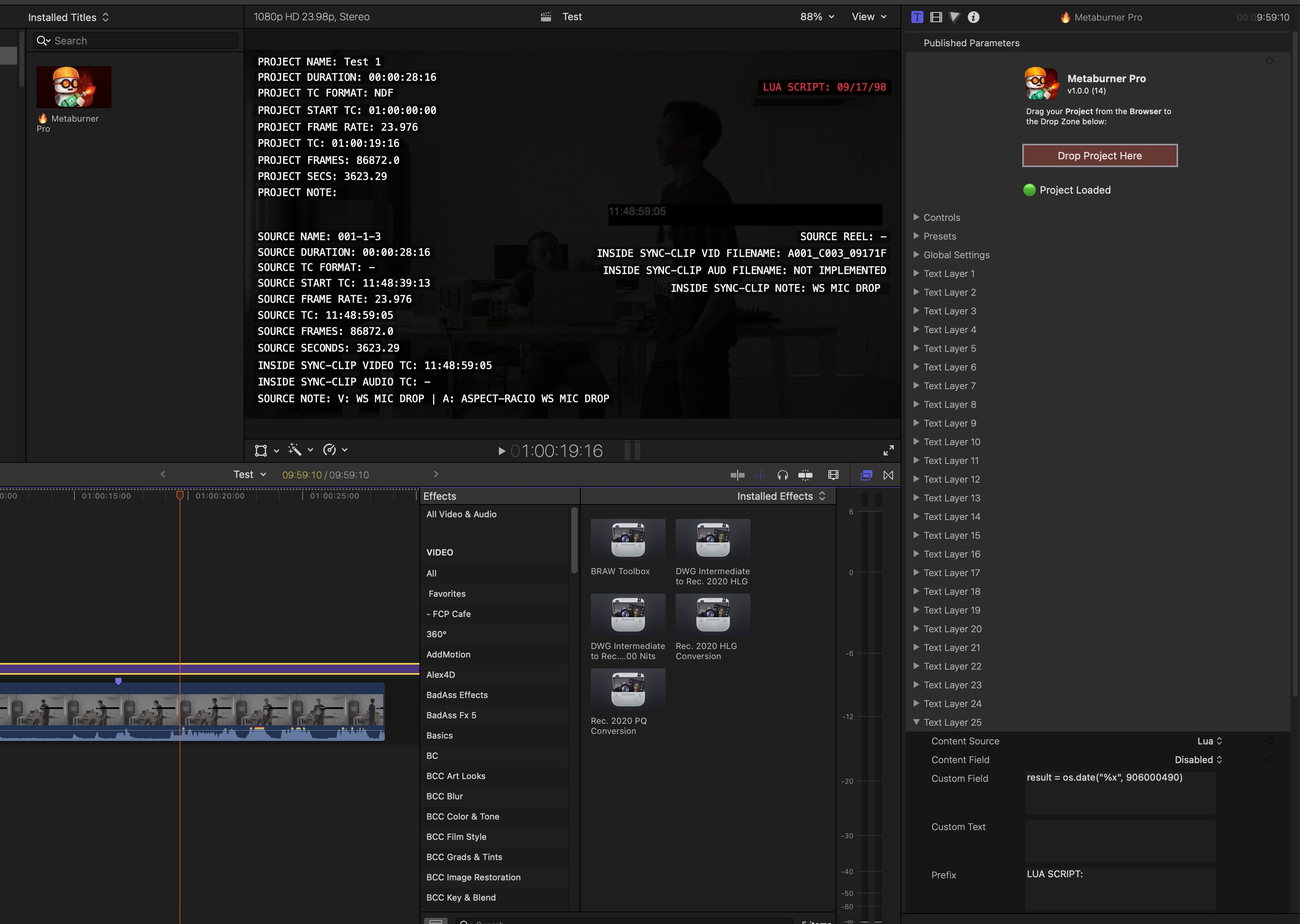
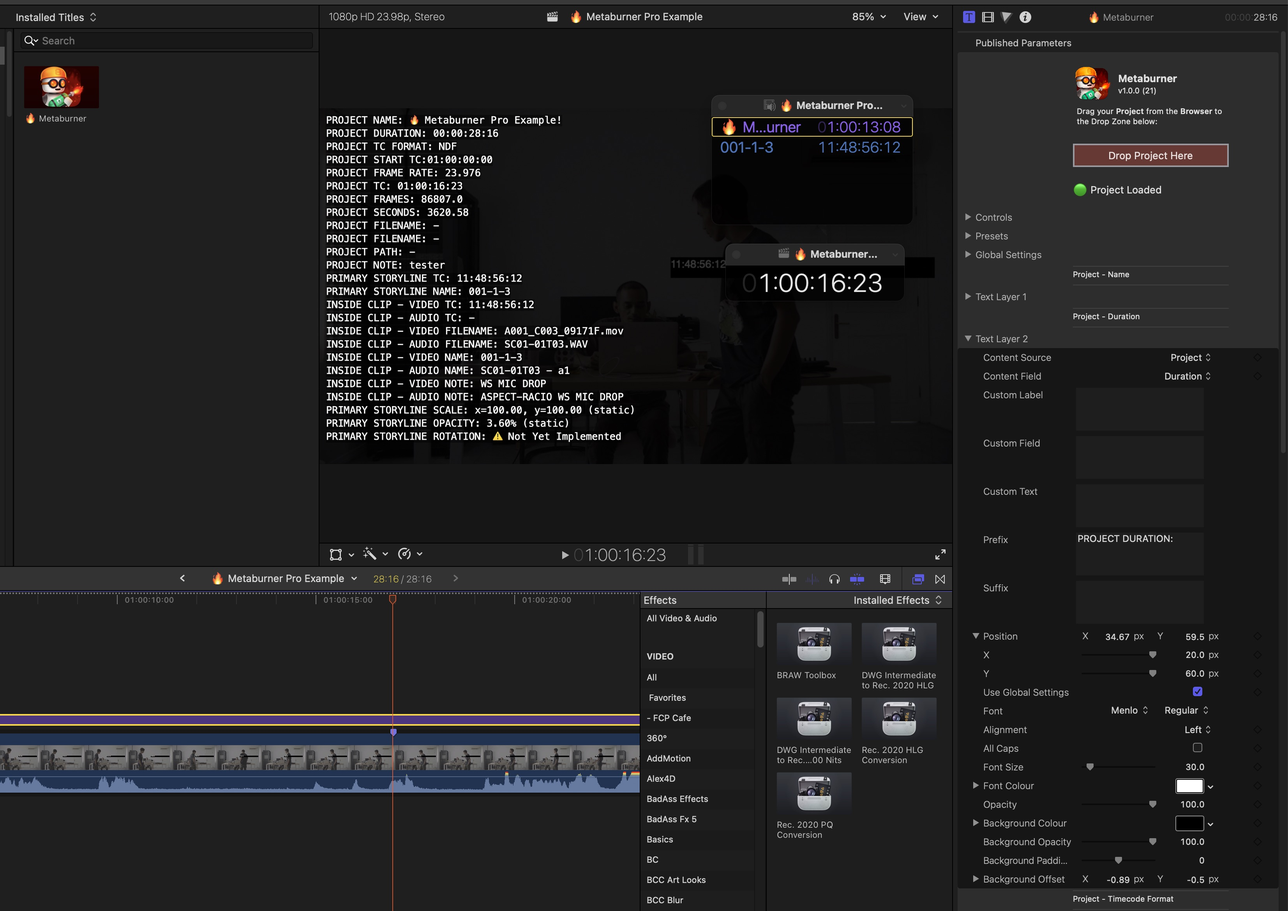
Refreshes Retype-generated documentation.
Process triggered by latenitefilms.

diff --git a/resources/js/config.js b/resources/js/config.js
@@ -1,1 +1,1 @@
-var __DOCS_CONFIG__ = {"id":"j2HvILx7F175xTHL53U11cjKD36Itj/pDDu","key":"emAB1cqzcEJFsx9aUPAuCh+JKh/uq30fuBt4fp+wi6o.Ai9SP9zGGxypaO0RkI0unTFMh++wutS40xlmudhUhgqalq+R4feKgkIhDKQDaK76AD7okR+IYuNUnNcdw2/jtQ.62","base":"/","host":"metaburner.pro","version":"1.0.0","useRelativePaths":true,"documentName":"index.html","appendDocumentName":false,"trailingSlash":true,"preloadSearch":false,"cacheBustingToken":"3.5.0.757540453582","cacheBustingStrategy":"query","sidebarFilterPlaceholder":"Filter","toolbarFilterPlaceholder":"Filter","showSidebarFilter":true,"filterNotFoundMsg":"No member names found containing the query \"{query}\"","maxHistoryItems":15,"homeIcon":"<path d=\"M12.97 2.59a1.5 1.5 0 00-1.94 111 0l-7.5 6.363A1.5 1.5 0 003 10.097V19.5A1.5 1.5 0 004.5 21h4.75a.75.75 0 00.75-.75V14h4v6.25c0 .414.336.75.75.75h4.75a1.5 1.5 0 001.5-1.5v-9.403a1.5 1.5 0 00-.53-1.144l-7.5-6.363z\"></path>","access":[{"value":"public","label":"Public"},{"value":"protected","label":"Protected"}],"toolbarLinks":[{"id":"fields","label":"Fields"},{"id":"properties","label":"Properties"},{"id":"methods","label":"Methods"},{"id":"events","label":"Events"}],"sidebar":[{"n":"/","l":"Introduction","s":"<path d=\"M11.03 2.59a1.501 1.501 0 0 1 1.94 0l7.5 6.363a1.5 1.5 0 0 1 .53 1.144V19.5a1.5 1.5 0 0 1-1.5 1.5h-5.75a.75.75 0 0 1-.75-.75V14h-2v6.25a.75.75 0 0 1-.75.75H4.5A1.5 1.5 0 0 1 3 19.5v-9.403c0-.44.194-.859.53-1.144ZM12 3.734l-7.5 6.363V19.5h5v-6.25a.75.75 0 0 1 .75-.75h3.5a.75.75 0 0 1 .75.75v6.25h5v-9.403Z\"/>"},{"n":"latenite","l":"Explore LateNite's Tools!","s":"<path d=\"M15.716 1.329a1.341 1.341 0 0 1 2.109 1.55L15.147 9h4.161c1.623 0 2.372 2.016 1.143 3.075L8.102 22.721a1.148 1.148 0 0 1-1.81-1.317L8.996 15H4.674c-1.619 0-2.37-2.008-1.148-3.07l12.19-10.6Zm.452 1.595L4.51 13.061a.25.25 0 0 0 .164.439h5.45a.749.749 0 0 1 .692 1.041l-2.559 6.066 11.215-9.668a.25.25 0 0 0-.164-.439H14a.75.75 0 0 1-.687-1.05Z\"/>"},{"n":"buy","l":"Buy on FxFactory","s":"<path d=\"M11.25 9.331V.75a.75.75 0 0 1 1.5 0v8.58l1.949-2.11A.75.75 0 1 1 15.8 8.237l-3.25 3.52a.75.75 0 0 1-1.102 0l-3.25-3.52A.75.75 0 1 1 9.3 7.22l1.949 2.111Z\"/><path d=\"M2.5 3.75v11.5c0 .138.112.25.25.25h18.5a.25.25 0 0 0 .25-.25V3.75a.25.25 0 0 0-.25-.25h-5.5a.75.75 0 0 1 0-1.5h5.5c.966 0 1.75.784 1.75 1.75v11.5A1.75 1.75 0 0 1 21.25 17h-6.204c.171 1.375.805 2.652 1.769 3.757A.752.752 0 0 1 16.25 22h-8.5a.75.75 0 0 1-.566-1.243c.965-1.105 1.599-2.382 1.77-3.757H2.75A1.75 1.75 0 0 1 1 15.25V3.75C1 2.784 1.784 2 2.75 2h5.5a.75.75 0 0 1 0 1.5h-5.5a.25.25 0 0 0-.25.25ZM10.463 17c-.126 1.266-.564 2.445-1.223 3.5h5.52c-.66-1.055-1.098-2.234-1.223-3.5Z\"/>"},{"n":"system-requirements","l":"System Requirements","s":"<path d=\"M16 12a4 4 0 1 1-8 0 4 4 0 0 1 8 0Zm-1.5 0a2.5 2.5 0 1 0-5 0 2.5 2.5 0 0 0 5 0Z\"/><path d=\"M12 1c.266 0 .532.009.797.028.763.055 1.345.617 1.512 1.304l.352 1.45c.019.078.09.171.225.221.247.089.49.19.728.302.13.061.246.044.315.002l1.275-.776c.603-.368 1.411-.353 1.99.147.402.349.78.726 1.128 1.129.501.578.515 1.386.147 1.99l-.776 1.274c-.042.069-.058.185.002.315.112.238.213.481.303.728.048.135.142.205.22.225l1.45.352c.687.167 1.249.749 1.303 1.512.038.531.038 1.063 0 1.594-.054.763-.616 1.345-1.303 1.512l-1.45.352c-.078.019-.171.09-.221.225-.089.248-.19.491-.302.728-.061.13-.044.246-.002.315l.776 1.275c.368.603.353 1.411-.147 1.99-.349.402-.726.78-1.129 1.128-.578.501-1.386.515-1.99.147l-1.274-.776c-.069-.042-.185-.058-.314.002a8.606 8.606 0 0 1-.729.303c-.135.048-.205.142-.225.22l-.352 1.45c-.167.687-.749 1.249-1.512 1.303-.531.038-1.063.038-1.594 0-.763-.054-1.345-.616-1.512-1.303l-.352-1.45c-.019-.078-.09-.171-.225-.221a8.138 8.138 0 0 1-.728-.302c-.13-.061-.246-.044-.315-.002l-1.275.776c-.603.368-1.411.353-1.99-.147-.402-.349-.78-.726-1.128-1.129-.501-.578-.515-1.386-.147-1.99l.776-1.274c.042-.069.058-.185-.002-.314a8.606 8.606 0 0 1-.303-.729c-.048-.135-.142-.205-.22-.225l-1.45-.352c-.687-.167-1.249-.749-1.304-1.512a11.158 11.158 0 0 1 0-1.594c.055-.763.617-1.345 1.304-1.512l1.45-.352c.078-.019.171-.09.221-.225.089-.248.19-.491.302-.728.061-.13.044-.246.002-.315l-.776-1.275c-.368-.603-.353-1.411.147-1.99.349-.402.726-.78 1.129-1.128.578-.501 1.386-.515 1.99-.147l1.274.776c.069.042.185.058.315-.002.238-.112.481-.213.728-.303.135-.048.205-.142.225-.22l.352-1.45c.167-.687.749-1.249 1.512-1.304C11.466 1.01 11.732 1 12 1Zm-.69 1.525c-.055.004-.135.05-.161.161l-.353 1.45a1.832 1.832 0 0 1-1.172 1.277 7.147 7.147 0 0 0-.6.249 1.833 1.833 0 0 1-1.734-.074l-1.274-.776c-.098-.06-.186-.036-.228 0a9.774 9.774 0 0 0-.976.976c-.036.042-.06.131 0 .228l.776 1.274c.314.529.342 1.18.074 1.734a7.147 7.147 0 0 0-.249.6 1.831 1.831 0 0 1-1.278 1.173l-1.45.351c-.11.027-.156.107-.16.162a9.63 9.63 0 0 0 0 1.38c.004.055.05.135.161.161l1.45.353a1.832 1.832 0 0 1 1.277 1.172c.074.204.157.404.249.6.268.553.24 1.204-.074 1.733l-.776 1.275c-.06.098-.036.186 0 .228.301.348.628.675.976.976.042.036.131.06.228 0l1.274-.776a1.83 1.83 0 0 1 1.734-.075c.196.093.396.176.6.25a1.831 1.831 0 0 1 1.173 1.278l.351 1.45c.027.11.107.156.162.16a9.63 9.63 0 0 0 1.38 0c.055-.004.135-.05.161-.161l.353-1.45a1.834 1.834 0 0 1 1.172-1.278 6.82 6.82 0 0 0 .6-.248 1.831 1.831 0 0 1 1.733.074l1.275.776c.098.06.186.036.228 0 .348-.301.675-.628.976-.976.036-.042.06-.131 0-.228l-.776-1.275a1.834 1.834 0 0 1-.075-1.733c.093-.196.176-.396.25-.6a1.831 1.831 0 0 1 1.278-1.173l1.45-.351c.11-.027.156-.107.16-.162a9.63 9.63 0 0 0 0-1.38c-.004-.055-.05-.135-.161-.161l-1.45-.353c-.626-.152-1.08-.625-1.278-1.172a6.576 6.576 0 0 0-.248-.6 1.833 1.833 0 0 1 .074-1.734l.776-1.274c.06-.098.036-.186 0-.228a9.774 9.774 0 0 0-.976-.976c-.042-.036-.131-.06-.228 0l-1.275.776a1.831 1.831 0 0 1-1.733.074 6.88 6.88 0 0 0-.6-.249 1.835 1.835 0 0 1-1.173-1.278l-.351-1.45c-.027-.11-.107-.156-.162-.16a9.63 9.63 0 0 0-1.38 0Z\"/>"},{"n":"how-to-use","l":"How To Use","s":"<path d=\"M14.265 1.627c0 3.545 1.869 5.327 3.479 7.021 1.54 1.62 3.006 3.163 3.006 6.102 0 4.812-3.753 8.25-8.565 8.25-4.813 0-8.935-3.421-8.935-8.25 0-2.039.962-4.011 2.509-4.899.305-.175.672.007.803.334C7.563 12.684 8.797 12.64 9.437 12c.388-.387.47-1.116-.004-2.062-2.405-4.812 1.863-8.279 4.2-8.854.336-.082.615.198.632.543ZM12.185 21.5c4.059 0 7.065-2.84 7.065-6.75 0-2.337-1.093-3.489-2.678-5.158l-.021-.023c-1.44-1.517-3.139-3.351-3.649-6.557a6.148 6.148 0 0 0-1.911 1.76c-.787 1.144-1.147 2.633-.216 4.495.603 1.205.777 2.74-.277 3.794-.657.657-1.762 1.1-2.956.586-.752-.324-1.353-.955-1.838-1.79-.567.706-.954 1.74-.954 2.893 0 3.847 3.288 6.75 7.435 6.75Z\"/>"},{"n":"lua-scripting","l":"Lua Scripting","s":"<path d=\"M9.25 12a.75.75 0 0 1-.22.53l-2.75 2.75a.75.75 0 0 1-1.06-1.06L7.44 12 5.22 9.78a.75.75 0 1 1 1.06-1.06l2.75 2.75c.141.14.22.331.22.53Zm2 2a.75.75 0 0 0 0 1.5h5a.75.75 0 0 0 0-1.5h-5Z\"/><path d=\"M0 4.75C0 3.784.784 3 1.75 3h20.5c.966 0 1.75.784 1.75 1.75v14.5A1.75 1.75 0 0 1 22.25 21H1.75A1.75 1.75 0 0 1 0 19.25Zm1.75-.25a.25.25 0 0 0-.25.25v14.5c0 .138.112.25.25.25h20.5a.25.25 0 0 0 .25-.25V4.75a.25.25 0 0 0-.25-.25Z\"/>"},{"n":"support","l":"Support","s":"<path d=\"M7.72.22a.75.75 0 0 1 1.06 0l1.204 1.203A4.98 4.98 0 0 1 12 1c.717 0 1.4.151 2.016.423L15.22.22a.751.751 0 0 1 1.042.018.751.751 0 0 1 .018 1.042l-.971.972A4.991 4.991 0 0 1 17 6v1.104a2.755 2.755 0 0 1 1.917 1.974l1.998-.999a.75.75 0 0 1 .67 1.342L19 10.714V13.5l3.25.003a.75.75 0 0 1 0 1.5L19 15.001V16c0 .568-.068 1.134-.204 1.686l.04.018 2.75 1.375a.75.75 0 1 1-.671 1.342l-2.638-1.319A6.998 6.998 0 0 1 12 23a6.998 6.998 0 0 1-6.197-3.742l-2.758 1.181a.752.752 0 0 1-1.064-.776.752.752 0 0 1 .474-.602l2.795-1.199A6.976 6.976 0 0 1 5 16v-.996H1.75a.75.75 0 0 1 0-1.5H5v-2.79L2.415 9.42a.75.75 0 0 1 .67-1.342l1.998.999A2.756 2.756 0 0 1 7 7.104V6a4.99 4.99 0 0 1 1.69-3.748l-.97-.972a.75.75 0 0 1 0-1.06ZM6.5 9.75V16a5.5 5.5 0 1 0 11 0V9.75c0-.69-.56-1.25-1.25-1.25h-8.5c-.69 0-1.25.56-1.25 1.25ZM8.5 7h7V6a3.5 3.5 0 1 0-7 0Z\"/>"},{"n":"faq","l":"FAQ","s":"<path d=\"M10.97 8.265a1.45 1.45 0 0 0-.487.57.75.75 0 0 1-1.341-.67c.2-.402.513-.826.997-1.148C10.627 6.69 11.244 6.5 12 6.5c.658 0 1.369.195 1.934.619a2.45 2.45 0 0 1 1.004 2.006c0 1.033-.513 1.72-1.027 2.215-.19.183-.399.358-.579.508l-.147.123a4.329 4.329 0 0 0-.435.409v1.37a.75.75 0 1 1-1.5 0v-1.473c0-.237.067-.504.247-.736.22-.28.486-.517.718-.714l.183-.153.001-.001c.172-.143.324-.27.47-.412.368-.355.569-.676.569-1.136a.953.953 0 0 0-.404-.806C12.766 8.118 12.384 8 12 8c-.494 0-.814.121-1.03.265ZM13 17a1 1 0 1 1-2 0 1 1 0 0 1 2 0Z\"/><path d=\"M12 1c6.075 0 11 4.925 11 11s-4.925 11-11 11S1 18.075 1 12 5.925 1 12 1ZM2.5 12a9.5 9.5 0 0 0 9.5 9.5 9.5 9.5 0 0 0 9.5-9.5A9.5 9.5 0 0 0 12 2.5 9.5 9.5 0 0 0 2.5 12Z\"/>"},{"n":"release-notes","l":"Release Notes","s":"<path d=\"M10 22a2 2 0 0 1-2-2V4a2 2 0 0 1 2-2h11a2 2 0 0 1 2 2v16a2 2 0 0 1-2 2Zm-.5-2a.5.5 0 0 0 .5.5h11a.5.5 0 0 0 .5-.5V4a.5.5 0 0 0-.5-.5H10a.5.5 0 0 0-.5.5ZM6.17 4.165a.75.75 0 0 1-.335 1.006c-.228.114-.295.177-.315.201a.035.035 0 0 0-.008.016.423.423 0 0 0-.012.112v13c0 .07.008.102.012.112a.03.03 0 0 0 .008.016c.02.024.087.087.315.201a.749.749 0 1 1-.67 1.342c-.272-.136-.58-.315-.81-.598C4.1 19.259 4 18.893 4 18.5v-13c0-.393.1-.759.355-1.073.23-.283.538-.462.81-.598a.75.75 0 0 1 1.006.336ZM2.15 5.624a.75.75 0 0 1-.274 1.025c-.15.087-.257.17-.32.245C1.5 6.96 1.5 6.99 1.5 7v10c0 .01 0 .04.056.106.063.074.17.158.32.245a.75.75 0 0 1-.752 1.298C.73 18.421 0 17.907 0 17V7c0-.907.73-1.42 1.124-1.65a.75.75 0 0 1 1.025.274Z\"/>"},{"n":"uninstall","l":"Uninstall","s":"<path d=\"M16 1.75V3h5.25a.75.75 0 0 1 0 1.5H2.75a.75.75 0 0 1 0-1.5H8V1.75C8 .784 8.784 0 9.75 0h4.5C15.216 0 16 .784 16 1.75Zm-6.5 0V3h5V1.75a.25.25 0 0 0-.25-.25h-4.5a.25.25 0 0 0-.25.25ZM4.997 6.178a.75.75 0 1 0-1.493.144L4.916 20.92a1.75 1.75 0 0 0 1.742 1.58h10.684a1.75 1.75 0 0 0 1.742-1.581l1.413-14.597a.75.75 0 0 0-1.494-.144l-1.412 14.596a.25.25 0 0 1-.249.226H6.658a.25.25 0 0 1-.249-.226L4.997 6.178Z\"/><path d=\"M9.206 7.501a.75.75 0 0 1 .793.705l.5 8.5A.75.75 0 1 1 9 16.794l-.5-8.5a.75.75 0 0 1 .705-.793Zm6.293.793A.75.75 0 1 0 14 8.206l-.5 8.5a.75.75 0 0 0 1.498.088l.5-8.5Z\"/>"},{"n":"credits","l":"Credits","s":"<path d=\"M3.5 8a5.5 5.5 0 1 1 8.596 4.547 9.005 9.005 0 0 1 5.9 8.18.751.751 0 0 1-1.5.045 7.5 7.5 0 0 0-14.993 0 .75.75 0 0 1-1.499-.044 9.005 9.005 0 0 1 5.9-8.181A5.496 5.496 0 0 1 3.5 8ZM9 4a4 4 0 1 0 0 8 4 4 0 0 0 0-8Zm8.29 4c-.148 0-.292.01-.434.03a.75.75 0 1 1-.212-1.484 4.53 4.53 0 0 1 3.38 8.097 6.69 6.69 0 0 1 3.956 6.107.75.75 0 0 1-1.5 0 5.193 5.193 0 0 0-3.696-4.972l-.534-.16v-1.676l.41-.209A3.03 3.03 0 0 0 17.29 8Z\"/>"},{"n":"privacy","l":"Privacy Policy","s":"<path d=\"M13 7.5a1 1 0 1 1-2 0 1 1 0 0 1 2 0Zm-3 3.75a.75.75 0 0 1 .75-.75h1.5a.75.75 0 0 1 .75.75v4.25h.75a.75.75 0 0 1 0 1.5h-3a.75.75 0 0 1 0-1.5h.75V12h-.75a.75.75 0 0 1-.75-.75Z\"/><path d=\"M12 1c6.075 0 11 4.925 11 11s-4.925 11-11 11S1 18.075 1 12 5.925 1 12 1ZM2.5 12a9.5 9.5 0 0 0 9.5 9.5 9.5 9.5 0 0 0 9.5-9.5A9.5 9.5 0 0 0 12 2.5 9.5 9.5 0 0 0 2.5 12Z\"/>"}],"search":{"mode":0,"minChars":2,"maxResults":20,"placeholder":"Search","hotkeys":["k"],"noResultsFoundMsg":"Sorry, no results found.","recognizeLanguages":true,"languages":[0],"preload":false},"resources":{"History_Title_Label":"History","History_ClearLink_Label":"Clear","History_NoHistory_Label":"No history items","API_AccessFilter_Label":"Access","API_ParameterSection_Label":"PARAMETERS","API_SignatureSection_Label":"SIGNATURE","API_CopyHint_Label":"Copy","API_CopyNameHint_Label":"Copy name","API_CopyLinkHint_Label":"Copy link","API_CopiedAckHint_Label":"Copied!","API_MoreOverloads_Label":"more","API_MoreDropdownItems_Label":"More","API_OptionalParameter_Label":"optional","API_DefaultParameterValue_Label":"Default value","API_InheritedFilter_Label":"Inherited","Search_Input_Placeholder":"Search","Toc_Contents_Label":"Contents","Toc_RelatedClasses_Label":"Related Classes","History_JustNowTime_Label":"just now","History_AgoTime_Label":"ago","History_YearTime_Label":"y","History_MonthTime_Label":"mo","History_DayTime_Label":"d","History_HourTime_Label":"h","History_MinuteTime_Label":"m","History_SecondTime_Label":"s"}};
+var __DOCS_CONFIG__ = {"id":"OQn175FrBou4rxucorh9QOTrmpaljITFg+9","key":"qKuVyQQzjBaWLfkOVHRRIrzWqsJXN7Z0RiX4Rj/mW5k.RYhnpWyI3flZdLgHHg3xPVj0CfeKSnpHf5BrqX/jUpYp/AXHoriaLkcDLq5tTABMfqxwrz71d6i0ymL7hT+buA.43","base":"/","host":"metaburner.pro","version":"1.0.0","useRelativePaths":true,"documentName":"index.html","appendDocumentName":false,"trailingSlash":true,"preloadSearch":false,"cacheBustingToken":"3.5.0.757541563188","cacheBustingStrategy":"query","sidebarFilterPlaceholder":"Filter","toolbarFilterPlaceholder":"Filter","showSidebarFilter":true,"filterNotFoundMsg":"No member names found containing the query \"{query}\"","maxHistoryItems":15,"homeIcon":"<path d=\"M12.97 2.59a1.5 1.5 0 00-1.94 111 0l-7.5 6.363A1.5 1.5 0 003 10.097V19.5A1.5 1.5 0 004.5 21h4.75a.75.75 0 00.75-.75V14h4v6.25c0 .414.336.75.75.75h4.75a1.5 1.5 0 001.5-1.5v-9.403a1.5 1.5 0 00-.53-1.144l-7.5-6.363z\"></path>","access":[{"value":"public","label":"Public"},{"value":"protected","label":"Protected"}],"toolbarLinks":[{"id":"fields","label":"Fields"},{"id":"properties","label":"Properties"},{"id":"methods","label":"Methods"},{"id":"events","label":"Events"}],"sidebar":[{"n":"/","l":"Introduction","s":"<path d=\"M11.03 2.59a1.501 1.501 0 0 1 1.94 0l7.5 6.363a1.5 1.5 0 0 1 .53 1.144V19.5a1.5 1.5 0 0 1-1.5 1.5h-5.75a.75.75 0 0 1-.75-.75V14h-2v6.25a.75.75 0 0 1-.75.75H4.5A1.5 1.5 0 0 1 3 19.5v-9.403c0-.44.194-.859.53-1.144ZM12 3.734l-7.5 6.363V19.5h5v-6.25a.75.75 0 0 1 .75-.75h3.5a.75.75 0 0 1 .75.75v6.25h5v-9.403Z\"/>"},{"n":"latenite","l":"Explore LateNite's Tools!","s":"<path d=\"M15.716 1.329a1.341 1.341 0 0 1 2.109 1.55L15.147 9h4.161c1.623 0 2.372 2.016 1.143 3.075L8.102 22.721a1.148 1.148 0 0 1-1.81-1.317L8.996 15H4.674c-1.619 0-2.37-2.008-1.148-3.07l12.19-10.6Zm.452 1.595L4.51 13.061a.25.25 0 0 0 .164.439h5.45a.749.749 0 0 1 .692 1.041l-2.559 6.066 11.215-9.668a.25.25 0 0 0-.164-.439H14a.75.75 0 0 1-.687-1.05Z\"/>"},{"n":"buy","l":"Buy on FxFactory","s":"<path d=\"M11.25 9.331V.75a.75.75 0 0 1 1.5 0v8.58l1.949-2.11A.75.75 0 1 1 15.8 8.237l-3.25 3.52a.75.75 0 0 1-1.102 0l-3.25-3.52A.75.75 0 1 1 9.3 7.22l1.949 2.111Z\"/><path d=\"M2.5 3.75v11.5c0 .138.112.25.25.25h18.5a.25.25 0 0 0 .25-.25V3.75a.25.25 0 0 0-.25-.25h-5.5a.75.75 0 0 1 0-1.5h5.5c.966 0 1.75.784 1.75 1.75v11.5A1.75 1.75 0 0 1 21.25 17h-6.204c.171 1.375.805 2.652 1.769 3.757A.752.752 0 0 1 16.25 22h-8.5a.75.75 0 0 1-.566-1.243c.965-1.105 1.599-2.382 1.77-3.757H2.75A1.75 1.75 0 0 1 1 15.25V3.75C1 2.784 1.784 2 2.75 2h5.5a.75.75 0 0 1 0 1.5h-5.5a.25.25 0 0 0-.25.25ZM10.463 17c-.126 1.266-.564 2.445-1.223 3.5h5.52c-.66-1.055-1.098-2.234-1.223-3.5Z\"/>"},{"n":"system-requirements","l":"System Requirements","s":"<path d=\"M16 12a4 4 0 1 1-8 0 4 4 0 0 1 8 0Zm-1.5 0a2.5 2.5 0 1 0-5 0 2.5 2.5 0 0 0 5 0Z\"/><path d=\"M12 1c.266 0 .532.009.797.028.763.055 1.345.617 1.512 1.304l.352 1.45c.019.078.09.171.225.221.247.089.49.19.728.302.13.061.246.044.315.002l1.275-.776c.603-.368 1.411-.353 1.99.147.402.349.78.726 1.128 1.129.501.578.515 1.386.147 1.99l-.776 1.274c-.042.069-.058.185.002.315.112.238.213.481.303.728.048.135.142.205.22.225l1.45.352c.687.167 1.249.749 1.303 1.512.038.531.038 1.063 0 1.594-.054.763-.616 1.345-1.303 1.512l-1.45.352c-.078.019-.171.09-.221.225-.089.248-.19.491-.302.728-.061.13-.044.246-.002.315l.776 1.275c.368.603.353 1.411-.147 1.99-.349.402-.726.78-1.129 1.128-.578.501-1.386.515-1.99.147l-1.274-.776c-.069-.042-.185-.058-.314.002a8.606 8.606 0 0 1-.729.303c-.135.048-.205.142-.225.22l-.352 1.45c-.167.687-.749 1.249-1.512 1.303-.531.038-1.063.038-1.594 0-.763-.054-1.345-.616-1.512-1.303l-.352-1.45c-.019-.078-.09-.171-.225-.221a8.138 8.138 0 0 1-.728-.302c-.13-.061-.246-.044-.315-.002l-1.275.776c-.603.368-1.411.353-1.99-.147-.402-.349-.78-.726-1.128-1.129-.501-.578-.515-1.386-.147-1.99l.776-1.274c.042-.069.058-.185-.002-.314a8.606 8.606 0 0 1-.303-.729c-.048-.135-.142-.205-.22-.225l-1.45-.352c-.687-.167-1.249-.749-1.304-1.512a11.158 11.158 0 0 1 0-1.594c.055-.763.617-1.345 1.304-1.512l1.45-.352c.078-.019.171-.09.221-.225.089-.248.19-.491.302-.728.061-.13.044-.246.002-.315l-.776-1.275c-.368-.603-.353-1.411.147-1.99.349-.402.726-.78 1.129-1.128.578-.501 1.386-.515 1.99-.147l1.274.776c.069.042.185.058.315-.002.238-.112.481-.213.728-.303.135-.048.205-.142.225-.22l.352-1.45c.167-.687.749-1.249 1.512-1.304C11.466 1.01 11.732 1 12 1Zm-.69 1.525c-.055.004-.135.05-.161.161l-.353 1.45a1.832 1.832 0 0 1-1.172 1.277 7.147 7.147 0 0 0-.6.249 1.833 1.833 0 0 1-1.734-.074l-1.274-.776c-.098-.06-.186-.036-.228 0a9.774 9.774 0 0 0-.976.976c-.036.042-.06.131 0 .228l.776 1.274c.314.529.342 1.18.074 1.734a7.147 7.147 0 0 0-.249.6 1.831 1.831 0 0 1-1.278 1.173l-1.45.351c-.11.027-.156.107-.16.162a9.63 9.63 0 0 0 0 1.38c.004.055.05.135.161.161l1.45.353a1.832 1.832 0 0 1 1.277 1.172c.074.204.157.404.249.6.268.553.24 1.204-.074 1.733l-.776 1.275c-.06.098-.036.186 0 .228.301.348.628.675.976.976.042.036.131.06.228 0l1.274-.776a1.83 1.83 0 0 1 1.734-.075c.196.093.396.176.6.25a1.831 1.831 0 0 1 1.173 1.278l.351 1.45c.027.11.107.156.162.16a9.63 9.63 0 0 0 1.38 0c.055-.004.135-.05.161-.161l.353-1.45a1.834 1.834 0 0 1 1.172-1.278 6.82 6.82 0 0 0 .6-.248 1.831 1.831 0 0 1 1.733.074l1.275.776c.098.06.186.036.228 0 .348-.301.675-.628.976-.976.036-.042.06-.131 0-.228l-.776-1.275a1.834 1.834 0 0 1-.075-1.733c.093-.196.176-.396.25-.6a1.831 1.831 0 0 1 1.278-1.173l1.45-.351c.11-.027.156-.107.16-.162a9.63 9.63 0 0 0 0-1.38c-.004-.055-.05-.135-.161-.161l-1.45-.353c-.626-.152-1.08-.625-1.278-1.172a6.576 6.576 0 0 0-.248-.6 1.833 1.833 0 0 1 .074-1.734l.776-1.274c.06-.098.036-.186 0-.228a9.774 9.774 0 0 0-.976-.976c-.042-.036-.131-.06-.228 0l-1.275.776a1.831 1.831 0 0 1-1.733.074 6.88 6.88 0 0 0-.6-.249 1.835 1.835 0 0 1-1.173-1.278l-.351-1.45c-.027-.11-.107-.156-.162-.16a9.63 9.63 0 0 0-1.38 0Z\"/>"},{"n":"how-to-use","l":"How To Use","s":"<path d=\"M14.265 1.627c0 3.545 1.869 5.327 3.479 7.021 1.54 1.62 3.006 3.163 3.006 6.102 0 4.812-3.753 8.25-8.565 8.25-4.813 0-8.935-3.421-8.935-8.25 0-2.039.962-4.011 2.509-4.899.305-.175.672.007.803.334C7.563 12.684 8.797 12.64 9.437 12c.388-.387.47-1.116-.004-2.062-2.405-4.812 1.863-8.279 4.2-8.854.336-.082.615.198.632.543ZM12.185 21.5c4.059 0 7.065-2.84 7.065-6.75 0-2.337-1.093-3.489-2.678-5.158l-.021-.023c-1.44-1.517-3.139-3.351-3.649-6.557a6.148 6.148 0 0 0-1.911 1.76c-.787 1.144-1.147 2.633-.216 4.495.603 1.205.777 2.74-.277 3.794-.657.657-1.762 1.1-2.956.586-.752-.324-1.353-.955-1.838-1.79-.567.706-.954 1.74-.954 2.893 0 3.847 3.288 6.75 7.435 6.75Z\"/>"},{"n":"lua-scripting","l":"Lua Scripting","s":"<path d=\"M9.25 12a.75.75 0 0 1-.22.53l-2.75 2.75a.75.75 0 0 1-1.06-1.06L7.44 12 5.22 9.78a.75.75 0 1 1 1.06-1.06l2.75 2.75c.141.14.22.331.22.53Zm2 2a.75.75 0 0 0 0 1.5h5a.75.75 0 0 0 0-1.5h-5Z\"/><path d=\"M0 4.75C0 3.784.784 3 1.75 3h20.5c.966 0 1.75.784 1.75 1.75v14.5A1.75 1.75 0 0 1 22.25 21H1.75A1.75 1.75 0 0 1 0 19.25Zm1.75-.25a.25.25 0 0 0-.25.25v14.5c0 .138.112.25.25.25h20.5a.25.25 0 0 0 .25-.25V4.75a.25.25 0 0 0-.25-.25Z\"/>"},{"n":"support","l":"Support","s":"<path d=\"M7.72.22a.75.75 0 0 1 1.06 0l1.204 1.203A4.98 4.98 0 0 1 12 1c.717 0 1.4.151 2.016.423L15.22.22a.751.751 0 0 1 1.042.018.751.751 0 0 1 .018 1.042l-.971.972A4.991 4.991 0 0 1 17 6v1.104a2.755 2.755 0 0 1 1.917 1.974l1.998-.999a.75.75 0 0 1 .67 1.342L19 10.714V13.5l3.25.003a.75.75 0 0 1 0 1.5L19 15.001V16c0 .568-.068 1.134-.204 1.686l.04.018 2.75 1.375a.75.75 0 1 1-.671 1.342l-2.638-1.319A6.998 6.998 0 0 1 12 23a6.998 6.998 0 0 1-6.197-3.742l-2.758 1.181a.752.752 0 0 1-1.064-.776.752.752 0 0 1 .474-.602l2.795-1.199A6.976 6.976 0 0 1 5 16v-.996H1.75a.75.75 0 0 1 0-1.5H5v-2.79L2.415 9.42a.75.75 0 0 1 .67-1.342l1.998.999A2.756 2.756 0 0 1 7 7.104V6a4.99 4.99 0 0 1 1.69-3.748l-.97-.972a.75.75 0 0 1 0-1.06ZM6.5 9.75V16a5.5 5.5 0 1 0 11 0V9.75c0-.69-.56-1.25-1.25-1.25h-8.5c-.69 0-1.25.56-1.25 1.25ZM8.5 7h7V6a3.5 3.5 0 1 0-7 0Z\"/>"},{"n":"faq","l":"FAQ","s":"<path d=\"M10.97 8.265a1.45 1.45 0 0 0-.487.57.75.75 0 0 1-1.341-.67c.2-.402.513-.826.997-1.148C10.627 6.69 11.244 6.5 12 6.5c.658 0 1.369.195 1.934.619a2.45 2.45 0 0 1 1.004 2.006c0 1.033-.513 1.72-1.027 2.215-.19.183-.399.358-.579.508l-.147.123a4.329 4.329 0 0 0-.435.409v1.37a.75.75 0 1 1-1.5 0v-1.473c0-.237.067-.504.247-.736.22-.28.486-.517.718-.714l.183-.153.001-.001c.172-.143.324-.27.47-.412.368-.355.569-.676.569-1.136a.953.953 0 0 0-.404-.806C12.766 8.118 12.384 8 12 8c-.494 0-.814.121-1.03.265ZM13 17a1 1 0 1 1-2 0 1 1 0 0 1 2 0Z\"/><path d=\"M12 1c6.075 0 11 4.925 11 11s-4.925 11-11 11S1 18.075 1 12 5.925 1 12 1ZM2.5 12a9.5 9.5 0 0 0 9.5 9.5 9.5 9.5 0 0 0 9.5-9.5A9.5 9.5 0 0 0 12 2.5 9.5 9.5 0 0 0 2.5 12Z\"/>"},{"n":"release-notes","l":"Release Notes","s":"<path d=\"M10 22a2 2 0 0 1-2-2V4a2 2 0 0 1 2-2h11a2 2 0 0 1 2 2v16a2 2 0 0 1-2 2Zm-.5-2a.5.5 0 0 0 .5.5h11a.5.5 0 0 0 .5-.5V4a.5.5 0 0 0-.5-.5H10a.5.5 0 0 0-.5.5ZM6.17 4.165a.75.75 0 0 1-.335 1.006c-.228.114-.295.177-.315.201a.035.035 0 0 0-.008.016.423.423 0 0 0-.012.112v13c0 .07.008.102.012.112a.03.03 0 0 0 .008.016c.02.024.087.087.315.201a.749.749 0 1 1-.67 1.342c-.272-.136-.58-.315-.81-.598C4.1 19.259 4 18.893 4 18.5v-13c0-.393.1-.759.355-1.073.23-.283.538-.462.81-.598a.75.75 0 0 1 1.006.336ZM2.15 5.624a.75.75 0 0 1-.274 1.025c-.15.087-.257.17-.32.245C1.5 6.96 1.5 6.99 1.5 7v10c0 .01 0 .04.056.106.063.074.17.158.32.245a.75.75 0 0 1-.752 1.298C.73 18.421 0 17.907 0 17V7c0-.907.73-1.42 1.124-1.65a.75.75 0 0 1 1.025.274Z\"/>"},{"n":"uninstall","l":"Uninstall","s":"<path d=\"M16 1.75V3h5.25a.75.75 0 0 1 0 1.5H2.75a.75.75 0 0 1 0-1.5H8V1.75C8 .784 8.784 0 9.75 0h4.5C15.216 0 16 .784 16 1.75Zm-6.5 0V3h5V1.75a.25.25 0 0 0-.25-.25h-4.5a.25.25 0 0 0-.25.25ZM4.997 6.178a.75.75 0 1 0-1.493.144L4.916 20.92a1.75 1.75 0 0 0 1.742 1.58h10.684a1.75 1.75 0 0 0 1.742-1.581l1.413-14.597a.75.75 0 0 0-1.494-.144l-1.412 14.596a.25.25 0 0 1-.249.226H6.658a.25.25 0 0 1-.249-.226L4.997 6.178Z\"/><path d=\"M9.206 7.501a.75.75 0 0 1 .793.705l.5 8.5A.75.75 0 1 1 9 16.794l-.5-8.5a.75.75 0 0 1 .705-.793Zm6.293.793A.75.75 0 1 0 14 8.206l-.5 8.5a.75.75 0 0 0 1.498.088l.5-8.5Z\"/>"},{"n":"credits","l":"Credits","s":"<path d=\"M3.5 8a5.5 5.5 0 1 1 8.596 4.547 9.005 9.005 0 0 1 5.9 8.18.751.751 0 0 1-1.5.045 7.5 7.5 0 0 0-14.993 0 .75.75 0 0 1-1.499-.044 9.005 9.005 0 0 1 5.9-8.181A5.496 5.496 0 0 1 3.5 8ZM9 4a4 4 0 1 0 0 8 4 4 0 0 0 0-8Zm8.29 4c-.148 0-.292.01-.434.03a.75.75 0 1 1-.212-1.484 4.53 4.53 0 0 1 3.38 8.097 6.69 6.69 0 0 1 3.956 6.107.75.75 0 0 1-1.5 0 5.193 5.193 0 0 0-3.696-4.972l-.534-.16v-1.676l.41-.209A3.03 3.03 0 0 0 17.29 8Z\"/>"},{"n":"privacy","l":"Privacy Policy","s":"<path d=\"M13 7.5a1 1 0 1 1-2 0 1 1 0 0 1 2 0Zm-3 3.75a.75.75 0 0 1 .75-.75h1.5a.75.75 0 0 1 .75.75v4.25h.75a.75.75 0 0 1 0 1.5h-3a.75.75 0 0 1 0-1.5h.75V12h-.75a.75.75 0 0 1-.75-.75Z\"/><path d=\"M12 1c6.075 0 11 4.925 11 11s-4.925 11-11 11S1 18.075 1 12 5.925 1 12 1ZM2.5 12a9.5 9.5 0 0 0 9.5 9.5 9.5 9.5 0 0 0 9.5-9.5A9.5 9.5 0 0 0 12 2.5 9.5 9.5 0 0 0 2.5 12Z\"/>"}],"search":{"mode":0,"minChars":2,"maxResults":20,"placeholder":"Search","hotkeys":["k"],"noResultsFoundMsg":"Sorry, no results found.","recognizeLanguages":true,"languages":[0],"preload":false},"resources":{"History_Title_Label":"History","History_ClearLink_Label":"Clear","History_NoHistory_Label":"No history items","API_AccessFilter_Label":"Access","API_ParameterSection_Label":"PARAMETERS","API_SignatureSection_Label":"SIGNATURE","API_CopyHint_Label":"Copy","API_CopyNameHint_Label":"Copy name","API_CopyLinkHint_Label":"Copy link","API_CopiedAckHint_Label":"Copied!","API_MoreOverloads_Label":"more","API_MoreDropdownItems_Label":"More","API_OptionalParameter_Label":"optional","API_DefaultParameterValue_Label":"Default value","API_InheritedFilter_Label":"Inherited","Search_Input_Placeholder":"Search","Toc_Contents_Label":"Contents","Toc_RelatedClasses_Label":"Related Classes","History_JustNowTime_Label":"just now","History_AgoTime_Label":"ago","History_YearTime_Label":"y","History_MonthTime_Label":"mo","History_DayTime_Label":"d","History_HourTime_Label":"h","History_MinuteTime_Label":"m","History_SecondTime_Label":"s"}};

diff --git a/how-to-use/index.html b/how-to-use/index.html
@@ -3,7 +3,7 @@
 <head>
     <meta charset="UTF-8">
     <meta name="viewport" content="width=device-width,initial-scale=1">
-    <meta name="turbo-cache-control" content="no-cache" data-turbo-track="reload" data-track-token="3.5.0.757540453582">
+    <meta name="turbo-cache-control" content="no-cache" data-turbo-track="reload" data-track-token="3.5.0.757541563188">
 
     <!-- See retype.com -->
     <meta name="generator" content="Retype 3.5.0">
@@ -21,22 +21,22 @@
     <meta property="og:url" content="https://metaburner.pro/how-to-use/">
     <meta property="og:title" content="How To Use">
     <meta property="og:description" content="Metaburner is currently in active development. We are aiming to release sometime in January 2024.">
-    <meta property="og:image" content="https://metaburner.pro/static/overlay-example.png">
+    <meta property="og:image" content="https://metaburner.pro/static/metaburner-pro-screenshot.jpeg">
 
     <!-- Twitter -->
     <meta property="twitter:card" content="summary_large_image">
     <meta property="twitter:url" content="https://metaburner.pro/how-to-use/">
     <meta property="twitter:title" content="How To Use">
     <meta property="twitter:description" content="Metaburner is currently in active development. We are aiming to release sometime in January 2024.">
-    <meta property="twitter:image" content="https://metaburner.pro/static/overlay-example.png">
+    <meta property="twitter:image" content="https://metaburner.pro/static/metaburner-pro-screenshot.jpeg">
 
     <script data-cfasync="false">(function () { var el = document.documentElement, m = localStorage.getItem("doc_theme"), wm = window.matchMedia; if (m === "dark" || (!m && wm && wm("(prefers-color-scheme: dark)").matches)) { el.classList.add("dark") } else { el.classList.remove("dark") } })();</script>
 
-    <link href="../resources/css/retype.css?v=3.5.0.757540453582" rel="stylesheet">
+    <link href="../resources/css/retype.css?v=3.5.0.757541563188" rel="stylesheet">
 
-    <script data-cfasync="false" src="../resources/js/config.js?v=3.5.0.757540453582" data-turbo-eval="false" defer></script>
+    <script data-cfasync="false" src="../resources/js/config.js?v=3.5.0.757541563188" data-turbo-eval="false" defer></script>
     <script data-cfasync="false" src="../resources/js/retype.js?v=3.5.0" data-turbo-eval="false" defer></script>
-    <script id="lunr-js" data-cfasync="false" src="../resources/js/lunr.js?v=3.5.0.757540453582" data-turbo-eval="false" defer></script>
+    <script id="lunr-js" data-cfasync="false" src="../resources/js/lunr.js?v=3.5.0.757541563188" data-turbo-eval="false" defer></script>
 </head>
 <body>
     <div id="docs-app" class="relative text-base antialiased text-gray-700 bg-white font-body dark:bg-dark-850 dark:text-dark-300">
@@ -294,7 +294,7 @@
 <p>We will be posting regular beta builds to TestFlight as we add new features and functionality.</p>
 <p>Got ideas or questions? Post them on our <a href="https://github.com/latenitefilms/metaburner/discussions">Discussions page</a>!</p>
 <p><figure class="content-center">
-    <img src="../static/overlay-example.png" alt="">
+    <img src="../static/metaburner-pro-screenshot.jpeg" alt="">
     <figcaption class="caption"></figcaption>
 </figure>
 </p>

diff --git a/buy/index.html b/buy/index.html
@@ -3,7 +3,7 @@
 <head>
     <meta charset="UTF-8">
     <meta name="viewport" content="width=device-width,initial-scale=1">
-    <meta name="turbo-cache-control" content="no-cache" data-turbo-track="reload" data-track-token="3.5.0.757540453582">
+    <meta name="turbo-cache-control" content="no-cache" data-turbo-track="reload" data-track-token="3.5.0.757541563188">
 
     <!-- See retype.com -->
     <meta name="generator" content="Retype 3.5.0">
@@ -30,11 +30,11 @@
 
     <script data-cfasync="false">(function () { var el = document.documentElement, m = localStorage.getItem("doc_theme"), wm = window.matchMedia; if (m === "dark" || (!m && wm && wm("(prefers-color-scheme: dark)").matches)) { el.classList.add("dark") } else { el.classList.remove("dark") } })();</script>
 
-    <link href="../resources/css/retype.css?v=3.5.0.757540453582" rel="stylesheet">
+    <link href="../resources/css/retype.css?v=3.5.0.757541563188" rel="stylesheet">
 
-    <script data-cfasync="false" src="../resources/js/config.js?v=3.5.0.757540453582" data-turbo-eval="false" defer></script>
+    <script data-cfasync="false" src="../resources/js/config.js?v=3.5.0.757541563188" data-turbo-eval="false" defer></script>
     <script data-cfasync="false" src="../resources/js/retype.js?v=3.5.0" data-turbo-eval="false" defer></script>
-    <script id="lunr-js" data-cfasync="false" src="../resources/js/lunr.js?v=3.5.0.757540453582" data-turbo-eval="false" defer></script>
+    <script id="lunr-js" data-cfasync="false" src="../resources/js/lunr.js?v=3.5.0.757541563188" data-turbo-eval="false" defer></script>
 </head>
 <body>
     <div id="docs-app" class="relative text-base antialiased text-gray-700 bg-white font-body dark:bg-dark-850 dark:text-dark-300">

diff --git a/credits/index.html b/credits/index.html
@@ -3,7 +3,7 @@
 <head>
     <meta charset="UTF-8">
     <meta name="viewport" content="width=device-width,initial-scale=1">
-    <meta name="turbo-cache-control" content="no-cache" data-turbo-track="reload" data-track-token="3.5.0.757540453582">
+    <meta name="turbo-cache-control" content="no-cache" data-turbo-track="reload" data-track-token="3.5.0.757541563188">
 
     <!-- See retype.com -->
     <meta name="generator" content="Retype 3.5.0">
@@ -30,11 +30,11 @@
 
     <script data-cfasync="false">(function () { var el = document.documentElement, m = localStorage.getItem("doc_theme"), wm = window.matchMedia; if (m === "dark" || (!m && wm && wm("(prefers-color-scheme: dark)").matches)) { el.classList.add("dark") } else { el.classList.remove("dark") } })();</script>
 
-    <link href="../resources/css/retype.css?v=3.5.0.757540453582" rel="stylesheet">
+    <link href="../resources/css/retype.css?v=3.5.0.757541563188" rel="stylesheet">
 
-    <script data-cfasync="false" src="../resources/js/config.js?v=3.5.0.757540453582" data-turbo-eval="false" defer></script>
+    <script data-cfasync="false" src="../resources/js/config.js?v=3.5.0.757541563188" data-turbo-eval="false" defer></script>
     <script data-cfasync="false" src="../resources/js/retype.js?v=3.5.0" data-turbo-eval="false" defer></script>
-    <script id="lunr-js" data-cfasync="false" src="../resources/js/lunr.js?v=3.5.0.757540453582" data-turbo-eval="false" defer></script>
+    <script id="lunr-js" data-cfasync="false" src="../resources/js/lunr.js?v=3.5.0.757541563188" data-turbo-eval="false" defer></script>
 </head>
 <body>
     <div id="docs-app" class="relative text-base antialiased text-gray-700 bg-white font-body dark:bg-dark-850 dark:text-dark-300">

diff --git a/faq/index.html b/faq/index.html
@@ -3,7 +3,7 @@
 <head>
     <meta charset="UTF-8">
     <meta name="viewport" content="width=device-width,initial-scale=1">
-    <meta name="turbo-cache-control" content="no-cache" data-turbo-track="reload" data-track-token="3.5.0.757540453582">
+    <meta name="turbo-cache-control" content="no-cache" data-turbo-track="reload" data-track-token="3.5.0.757541563188">
 
     <!-- See retype.com -->
     <meta name="generator" content="Retype 3.5.0">
@@ -30,11 +30,11 @@
 
     <script data-cfasync="false">(function () { var el = document.documentElement, m = localStorage.getItem("doc_theme"), wm = window.matchMedia; if (m === "dark" || (!m && wm && wm("(prefers-color-scheme: dark)").matches)) { el.classList.add("dark") } else { el.classList.remove("dark") } })();</script>
 
-    <link href="../resources/css/retype.css?v=3.5.0.757540453582" rel="stylesheet">
+    <link href="../resources/css/retype.css?v=3.5.0.757541563188" rel="stylesheet">
 
-    <script data-cfasync="false" src="../resources/js/config.js?v=3.5.0.757540453582" data-turbo-eval="false" defer></script>
+    <script data-cfasync="false" src="../resources/js/config.js?v=3.5.0.757541563188" data-turbo-eval="false" defer></script>
     <script data-cfasync="false" src="../resources/js/retype.js?v=3.5.0" data-turbo-eval="false" defer></script>
-    <script id="lunr-js" data-cfasync="false" src="../resources/js/lunr.js?v=3.5.0.757540453582" data-turbo-eval="false" defer></script>
+    <script id="lunr-js" data-cfasync="false" src="../resources/js/lunr.js?v=3.5.0.757541563188" data-turbo-eval="false" defer></script>
 </head>
 <body>
     <div id="docs-app" class="relative text-base antialiased text-gray-700 bg-white font-body dark:bg-dark-850 dark:text-dark-300">

diff --git a/latenite/index.html b/latenite/index.html
@@ -3,7 +3,7 @@
 <head>
     <meta charset="UTF-8">
     <meta name="viewport" content="width=device-width,initial-scale=1">
-    <meta name="turbo-cache-control" content="no-cache" data-turbo-track="reload" data-track-token="3.5.0.757540453582">
+    <meta name="turbo-cache-control" content="no-cache" data-turbo-track="reload" data-track-token="3.5.0.757541563188">
 
     <!-- See retype.com -->
     <meta name="generator" content="Retype 3.5.0">
@@ -30,11 +30,11 @@
 
     <script data-cfasync="false">(function () { var el = document.documentElement, m = localStorage.getItem("doc_theme"), wm = window.matchMedia; if (m === "dark" || (!m && wm && wm("(prefers-color-scheme: dark)").matches)) { el.classList.add("dark") } else { el.classList.remove("dark") } })();</script>
 
-    <link href="../resources/css/retype.css?v=3.5.0.757540453582" rel="stylesheet">
+    <link href="../resources/css/retype.css?v=3.5.0.757541563188" rel="stylesheet">
 
-    <script data-cfasync="false" src="../resources/js/config.js?v=3.5.0.757540453582" data-turbo-eval="false" defer></script>
+    <script data-cfasync="false" src="../resources/js/config.js?v=3.5.0.757541563188" data-turbo-eval="false" defer></script>
     <script data-cfasync="false" src="../resources/js/retype.js?v=3.5.0" data-turbo-eval="false" defer></script>
-    <script id="lunr-js" data-cfasync="false" src="../resources/js/lunr.js?v=3.5.0.757540453582" data-turbo-eval="false" defer></script>
+    <script id="lunr-js" data-cfasync="false" src="../resources/js/lunr.js?v=3.5.0.757541563188" data-turbo-eval="false" defer></script>
 </head>
 <body>
     <div id="docs-app" class="relative text-base antialiased text-gray-700 bg-white font-body dark:bg-dark-850 dark:text-dark-300">

diff --git a/lua-scripting/index.html b/lua-scripting/index.html
@@ -3,7 +3,7 @@
 <head>
     <meta charset="UTF-8">
     <meta name="viewport" content="width=device-width,initial-scale=1">
-    <meta name="turbo-cache-control" content="no-cache" data-turbo-track="reload" data-track-token="3.5.0.757540453582">
+    <meta name="turbo-cache-control" content="no-cache" data-turbo-track="reload" data-track-token="3.5.0.757541563188">
 
     <!-- See retype.com -->
     <meta name="generator" content="Retype 3.5.0">
@@ -32,11 +32,11 @@
 
     <script data-cfasync="false">(function () { var el = document.documentElement, m = localStorage.getItem("doc_theme"), wm = window.matchMedia; if (m === "dark" || (!m && wm && wm("(prefers-color-scheme: dark)").matches)) { el.classList.add("dark") } else { el.classList.remove("dark") } })();</script>
 
-    <link href="../resources/css/retype.css?v=3.5.0.757540453582" rel="stylesheet">
+    <link href="../resources/css/retype.css?v=3.5.0.757541563188" rel="stylesheet">
 
-    <script data-cfasync="false" src="../resources/js/config.js?v=3.5.0.757540453582" data-turbo-eval="false" defer></script>
+    <script data-cfasync="false" src="../resources/js/config.js?v=3.5.0.757541563188" data-turbo-eval="false" defer></script>
     <script data-cfasync="false" src="../resources/js/retype.js?v=3.5.0" data-turbo-eval="false" defer></script>
-    <script id="lunr-js" data-cfasync="false" src="../resources/js/lunr.js?v=3.5.0.757540453582" data-turbo-eval="false" defer></script>
+    <script id="lunr-js" data-cfasync="false" src="../resources/js/lunr.js?v=3.5.0.757541563188" data-turbo-eval="false" defer></script>
 </head>
 <body>
     <div id="docs-app" class="relative text-base antialiased text-gray-700 bg-white font-body dark:bg-dark-850 dark:text-dark-300">

diff --git a/privacy/index.html b/privacy/index.html
@@ -3,7 +3,7 @@
 <head>
     <meta charset="UTF-8">
     <meta name="viewport" content="width=device-width,initial-scale=1">
-    <meta name="turbo-cache-control" content="no-cache" data-turbo-track="reload" data-track-token="3.5.0.757540453582">
+    <meta name="turbo-cache-control" content="no-cache" data-turbo-track="reload" data-track-token="3.5.0.757541563188">
 
     <!-- See retype.com -->
     <meta name="generator" content="Retype 3.5.0">
@@ -30,11 +30,11 @@
 
     <script data-cfasync="false">(function () { var el = document.documentElement, m = localStorage.getItem("doc_theme"), wm = window.matchMedia; if (m === "dark" || (!m && wm && wm("(prefers-color-scheme: dark)").matches)) { el.classList.add("dark") } else { el.classList.remove("dark") } })();</script>
 
-    <link href="../resources/css/retype.css?v=3.5.0.757540453582" rel="stylesheet">
+    <link href="../resources/css/retype.css?v=3.5.0.757541563188" rel="stylesheet">
 
-    <script data-cfasync="false" src="../resources/js/config.js?v=3.5.0.757540453582" data-turbo-eval="false" defer></script>
+    <script data-cfasync="false" src="../resources/js/config.js?v=3.5.0.757541563188" data-turbo-eval="false" defer></script>
     <script data-cfasync="false" src="../resources/js/retype.js?v=3.5.0" data-turbo-eval="false" defer></script>
-    <script id="lunr-js" data-cfasync="false" src="../resources/js/lunr.js?v=3.5.0.757540453582" data-turbo-eval="false" defer></script>
+    <script id="lunr-js" data-cfasync="false" src="../resources/js/lunr.js?v=3.5.0.757541563188" data-turbo-eval="false" defer></script>
 </head>
 <body>
     <div id="docs-app" class="relative text-base antialiased text-gray-700 bg-white font-body dark:bg-dark-850 dark:text-dark-300">

diff --git a/release-notes/index.html b/release-notes/index.html
@@ -3,7 +3,7 @@
 <head>
     <meta charset="UTF-8">
     <meta name="viewport" content="width=device-width,initial-scale=1">
-    <meta name="turbo-cache-control" content="no-cache" data-turbo-track="reload" data-track-token="3.5.0.757540453582">
+    <meta name="turbo-cache-control" content="no-cache" data-turbo-track="reload" data-track-token="3.5.0.757541563188">
 
     <!-- See retype.com -->
     <meta name="generator" content="Retype 3.5.0">
@@ -30,11 +30,11 @@
 
     <script data-cfasync="false">(function () { var el = document.documentElement, m = localStorage.getItem("doc_theme"), wm = window.matchMedia; if (m === "dark" || (!m && wm && wm("(prefers-color-scheme: dark)").matches)) { el.classList.add("dark") } else { el.classList.remove("dark") } })();</script>
 
-    <link href="../resources/css/retype.css?v=3.5.0.757540453582" rel="stylesheet">
+    <link href="../resources/css/retype.css?v=3.5.0.757541563188" rel="stylesheet">
 
-    <script data-cfasync="false" src="../resources/js/config.js?v=3.5.0.757540453582" data-turbo-eval="false" defer></script>
+    <script data-cfasync="false" src="../resources/js/config.js?v=3.5.0.757541563188" data-turbo-eval="false" defer></script>
     <script data-cfasync="false" src="../resources/js/retype.js?v=3.5.0" data-turbo-eval="false" defer></script>
-    <script id="lunr-js" data-cfasync="false" src="../resources/js/lunr.js?v=3.5.0.757540453582" data-turbo-eval="false" defer></script>
+    <script id="lunr-js" data-cfasync="false" src="../resources/js/lunr.js?v=3.5.0.757541563188" data-turbo-eval="false" defer></script>
 </head>
 <body>
     <div id="docs-app" class="relative text-base antialiased text-gray-700 bg-white font-body dark:bg-dark-850 dark:text-dark-300">

diff --git a/support/index.html b/support/index.html
@@ -3,7 +3,7 @@
 <head>
     <meta charset="UTF-8">
     <meta name="viewport" content="width=device-width,initial-scale=1">
-    <meta name="turbo-cache-control" content="no-cache" data-turbo-track="reload" data-track-token="3.5.0.757540453582">
+    <meta name="turbo-cache-control" content="no-cache" data-turbo-track="reload" data-track-token="3.5.0.757541563188">
 
     <!-- See retype.com -->
     <meta name="generator" content="Retype 3.5.0">
@@ -30,11 +30,11 @@
 
     <script data-cfasync="false">(function () { var el = document.documentElement, m = localStorage.getItem("doc_theme"), wm = window.matchMedia; if (m === "dark" || (!m && wm && wm("(prefers-color-scheme: dark)").matches)) { el.classList.add("dark") } else { el.classList.remove("dark") } })();</script>
 
-    <link href="../resources/css/retype.css?v=3.5.0.757540453582" rel="stylesheet">
+    <link href="../resources/css/retype.css?v=3.5.0.757541563188" rel="stylesheet">
 
-    <script data-cfasync="false" src="../resources/js/config.js?v=3.5.0.757540453582" data-turbo-eval="false" defer></script>
+    <script data-cfasync="false" src="../resources/js/config.js?v=3.5.0.757541563188" data-turbo-eval="false" defer></script>
     <script data-cfasync="false" src="../resources/js/retype.js?v=3.5.0" data-turbo-eval="false" defer></script>
-    <script id="lunr-js" data-cfasync="false" src="../resources/js/lunr.js?v=3.5.0.757540453582" data-turbo-eval="false" defer></script>
+    <script id="lunr-js" data-cfasync="false" src="../resources/js/lunr.js?v=3.5.0.757541563188" data-turbo-eval="false" defer></script>
 </head>
 <body>
     <div id="docs-app" class="relative text-base antialiased text-gray-700 bg-white font-body dark:bg-dark-850 dark:text-dark-300">

diff --git a/system-requirements/index.html b/system-requirements/index.html
@@ -3,7 +3,7 @@
 <head>
     <meta charset="UTF-8">
     <meta name="viewport" content="width=device-width,initial-scale=1">
-    <meta name="turbo-cache-control" content="no-cache" data-turbo-track="reload" data-track-token="3.5.0.757540453582">
+    <meta name="turbo-cache-control" content="no-cache" data-turbo-track="reload" data-track-token="3.5.0.757541563188">
 
     <!-- See retype.com -->
     <meta name="generator" content="Retype 3.5.0">
@@ -30,11 +30,11 @@
 
     <script data-cfasync="false">(function () { var el = document.documentElement, m = localStorage.getItem("doc_theme"), wm = window.matchMedia; if (m === "dark" || (!m && wm && wm("(prefers-color-scheme: dark)").matches)) { el.classList.add("dark") } else { el.classList.remove("dark") } })();</script>
 
-    <link href="../resources/css/retype.css?v=3.5.0.757540453582" rel="stylesheet">
+    <link href="../resources/css/retype.css?v=3.5.0.757541563188" rel="stylesheet">
 
-    <script data-cfasync="false" src="../resources/js/config.js?v=3.5.0.757540453582" data-turbo-eval="false" defer></script>
+    <script data-cfasync="false" src="../resources/js/config.js?v=3.5.0.757541563188" data-turbo-eval="false" defer></script>
     <script data-cfasync="false" src="../resources/js/retype.js?v=3.5.0" data-turbo-eval="false" defer></script>
-    <script id="lunr-js" data-cfasync="false" src="../resources/js/lunr.js?v=3.5.0.757540453582" data-turbo-eval="false" defer></script>
+    <script id="lunr-js" data-cfasync="false" src="../resources/js/lunr.js?v=3.5.0.757541563188" data-turbo-eval="false" defer></script>
 </head>
 <body>
     <div id="docs-app" class="relative text-base antialiased text-gray-700 bg-white font-body dark:bg-dark-850 dark:text-dark-300">

diff --git a/uninstall/index.html b/uninstall/index.html
@@ -3,7 +3,7 @@
 <head>
     <meta charset="UTF-8">
     <meta name="viewport" content="width=device-width,initial-scale=1">
-    <meta name="turbo-cache-control" content="no-cache" data-turbo-track="reload" data-track-token="3.5.0.757540453582">
+    <meta name="turbo-cache-control" content="no-cache" data-turbo-track="reload" data-track-token="3.5.0.757541563188">
 
     <!-- See retype.com -->
     <meta name="generator" content="Retype 3.5.0">
@@ -30,11 +30,11 @@
 
     <script data-cfasync="false">(function () { var el = document.documentElement, m = localStorage.getItem("doc_theme"), wm = window.matchMedia; if (m === "dark" || (!m && wm && wm("(prefers-color-scheme: dark)").matches)) { el.classList.add("dark") } else { el.classList.remove("dark") } })();</script>
 
-    <link href="../resources/css/retype.css?v=3.5.0.757540453582" rel="stylesheet">
+    <link href="../resources/css/retype.css?v=3.5.0.757541563188" rel="stylesheet">
 
-    <script data-cfasync="false" src="../resources/js/config.js?v=3.5.0.757540453582" data-turbo-eval="false" defer></script>
+    <script data-cfasync="false" src="../resources/js/config.js?v=3.5.0.757541563188" data-turbo-eval="false" defer></script>
     <script data-cfasync="false" src="../resources/js/retype.js?v=3.5.0" data-turbo-eval="false" defer></script>
-    <script id="lunr-js" data-cfasync="false" src="../resources/js/lunr.js?v=3.5.0.757540453582" data-turbo-eval="false" defer></script>
+    <script id="lunr-js" data-cfasync="false" src="../resources/js/lunr.js?v=3.5.0.757541563188" data-turbo-eval="false" defer></script>
 </head>
 <body>
     <div id="docs-app" class="relative text-base antialiased text-gray-700 bg-white font-body dark:bg-dark-850 dark:text-dark-300">
